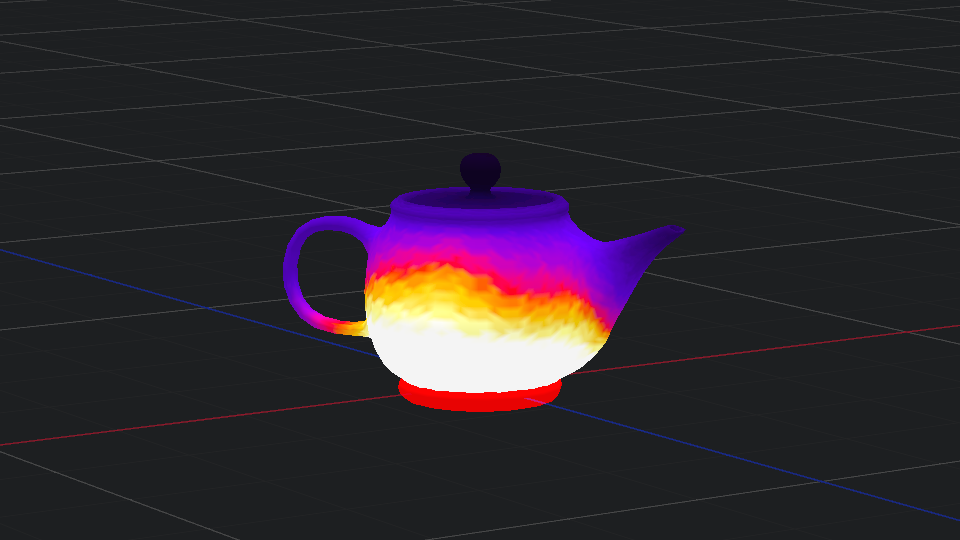
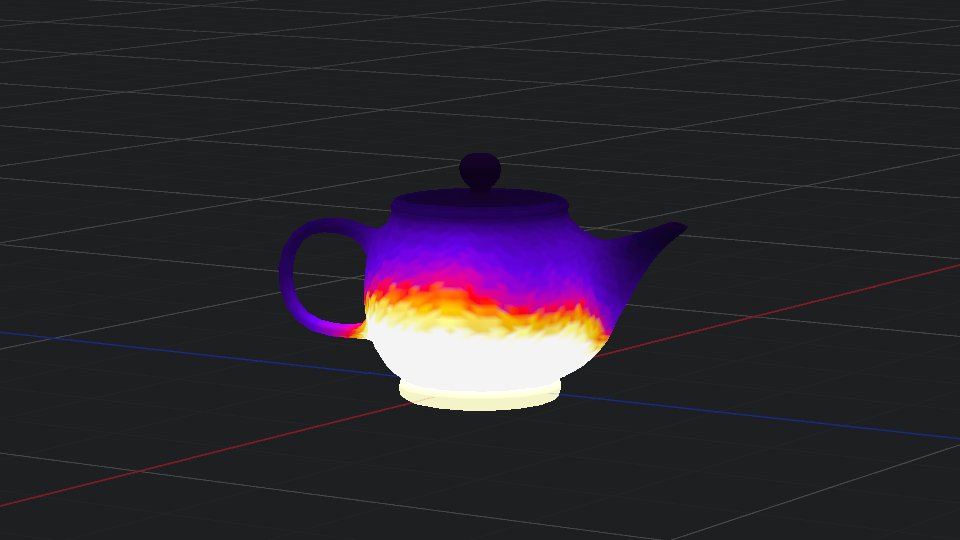
Heat accumulation doesnt exceed heat source temperature

diff --git a/HeatSpectra/HeatSource.cpp b/HeatSpectra/HeatSource.cpp
@@ -36,7 +36,7 @@ void HeatSource::createSourceBuffer(VulkanDevice& vulkanDevice, Model& heatModel
     const auto& modelVertices = heatModel.getVertices();
     for (size_t i = 0; i < heatModel.getVertexCount(); i++) {
         surfaceVertices[i].position = modelVertices[i].pos;
-        surfaceVertices[i].temperature = 5.5f;
+        surfaceVertices[i].temperature = 9.5f;
     }
 
     // Copy CPU data to staging buffer

diff --git a/HeatSpectra/HeatSystem.cpp b/HeatSpectra/HeatSystem.cpp
@@ -516,7 +516,7 @@ void HeatSystem::initializeTetra(VulkanDevice& vulkanDevice) {
     for (size_t i = 0; i < feaMesh.elements.size(); i++) {
         feaMesh.elements[i].temperature = 1.0f;
         feaMesh.elements[i].coolingRate = 0.01f;
-        feaMesh.elements[i].thermalConductivity = 0.75f;
+        feaMesh.elements[i].thermalConductivity = 0.25f;
 
         std::cout << "Tetra " << i << ": temp = " << feaMesh.elements[i].temperature
             << ", vertices = ["